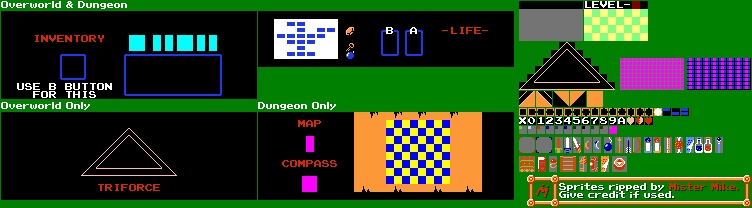
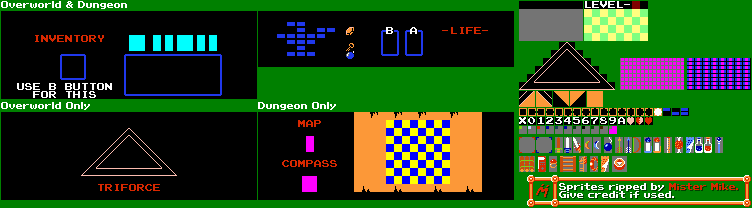
Added map to HUD, still need to add to inventory screen

Changed region(s): [[0.367, 0.0865, 0.4588, 0.2885]]

diff --git a/Container Classes/HUD.cs b/Container Classes/HUD.cs
@@ -2,6 +2,8 @@
 using Enums;
 using System;
 using System.Collections.Generic;
+using Microsoft.Xna.Framework.Graphics;
+using System.Diagnostics;
 
 public class HUD
 {
@@ -12,7 +14,11 @@ public class HUD
 
     private ISprite primaryItemSprite;
     private ISprite secondaryItemSprite;
-    //private ISprite[] primarySecondaryItems;
+
+    private ISprite hudMapCover;
+    private ISprite hudLocator;
+    private ISprite compassLocator;
+    private Dictionary<(int, int), Vector2> mapIndicators;
 
     public HUDText rupeeText { get; set; }
     public HUDText keyText { get; set; }
@@ -44,6 +50,32 @@ public class HUD
         itemText = spriteFactory.CreateHUDText(new Vector2(hudPositioning.X + 390, hudPositioning.Y + 165));
         itemText.Text = "" + playerInventory.calculateNumberOfSecondaryItems();
         itemText.TextColor = Color.White;
+
+        hudMapCover = spriteFactory.CreateHUDSquareSprite(new Rectangle(hudPositioning.X + 63, hudPositioning.Y + 32, 275, 190), Color.Black);
+
+        mapIndicators = new()
+        {
+            {(0, 1), new Vector2(hudPositioning.X + 125, hudPositioning.Y + 45) },
+            {(0, 2), new Vector2(hudPositioning.X + 167, hudPositioning.Y + 45) },
+            {(1, 2), new Vector2(hudPositioning.X + 167, hudPositioning.Y + 70) },
+            {(2, 2), new Vector2(hudPositioning.X + 167, hudPositioning.Y + 95) },
+            {(2, 1), new Vector2(hudPositioning.X + 125, hudPositioning.Y + 95) },
+            {(2, 0), new Vector2(hudPositioning.X + 83, hudPositioning.Y + 95) },
+            {(3, 1), new Vector2(hudPositioning.X + 125, hudPositioning.Y + 120) },
+            {(3, 2), new Vector2(hudPositioning.X + 167, hudPositioning.Y + 120) },
+            {(4, 2), new Vector2(hudPositioning.X + 167, hudPositioning.Y + 145) },
+            {(5, 1), new Vector2(hudPositioning.X + 125, hudPositioning.Y + 170) },
+            {(5, 2), new Vector2(hudPositioning.X + 167, hudPositioning.Y + 170) }, // starting room
+            {(2, 3), new Vector2(hudPositioning.X + 209, hudPositioning.Y + 95) },
+            {(3, 3), new Vector2(hudPositioning.X + 209, hudPositioning.Y + 120) },
+            {(5, 3), new Vector2(hudPositioning.X + 209, hudPositioning.Y + 170) },
+            {(1, 4), new Vector2(hudPositioning.X + 251, hudPositioning.Y + 70) },
+            {(2, 4), new Vector2(hudPositioning.X + 251, hudPositioning.Y + 95) },
+            {(1, 5), new Vector2(hudPositioning.X + 293, hudPositioning.Y + 70) },
+        };
+
+        hudLocator = spriteFactory.CreateHUDSquareSprite(new Rectangle((int)mapIndicators[((int)(playerInventory.currentRoom.X), (int)(playerInventory.currentRoom.Y))].X, (int)mapIndicators[((int)playerInventory.currentRoom.X, (int)playerInventory.currentRoom.Y)].Y, 10, 10), Color.LimeGreen);
+        compassLocator = spriteFactory.CreateHUDSquareSprite(new Rectangle(hudPositioning.X + 293, hudPositioning.Y + 70, 10, 10), Color.Red);
     }
 
     private ISprite determineItemSprite(Weapon weapon, Vector2 position)
@@ -83,6 +115,8 @@ public class HUD
         itemText.Text = "" + playerInventory.calculateNumberOfSecondaryItems();
         primaryItemSprite = determineItemSprite(playerInventory.primaryItem, new Vector2(hudPositioning.X + 575, hudPositioning.Y + 100));
         secondaryItemSprite = determineItemSprite(playerInventory.secondaryItem, new Vector2(hudPositioning.X + 625, hudPositioning.Y + 130));
+
+        hudLocator = spriteFactory.CreateHUDSquareSprite(new Rectangle((int)mapIndicators[((int)(playerInventory.currentRoom.X), (int)(playerInventory.currentRoom.Y))].X, (int)mapIndicators[((int)playerInventory.currentRoom.X, (int)playerInventory.currentRoom.Y)].Y, 10, 10), Color.LimeGreen);
     }
     public void Draw()
     {
@@ -120,5 +154,18 @@ public class HUD
         rupeeText.Draw();
         keyText.Draw();
         itemText.Draw();
+
+
+        if (playerInventory.hasCompass)
+        {
+            compassLocator.SpriteDraw(Vector2.Zero);
+        }
+
+        if (!playerInventory.hasMap)
+        {
+            hudMapCover.SpriteDraw(new Vector2(hudPositioning.X + 300, hudPositioning.Y + 50));
+        }
+
+        hudLocator.SpriteDraw(Vector2.Zero);
     }
 }

diff --git a/Sprites/HUD/HUDSquareSprite.cs b/Sprites/HUD/HUDSquareSprite.cs
@@ -1,0 +1,33 @@
+using Microsoft.Xna.Framework;
+using Microsoft.Xna.Framework.Graphics;
+
+public class HUDSquareSprite : ISprite
+{
+    private Texture2D texture;
+    private SpriteBatch spriteBatch;
+    private Rectangle coverage;
+    private Color color;
+
+    //private Texture2D texture;
+    private Rectangle sourceRectangle = new Rectangle(1, 2, 1, 1);
+
+    public HUDSquareSprite(Rectangle coverage, SpriteBatch spriteBatch, Texture2D texture, Color color)
+    {
+        this.coverage = coverage;
+        this.spriteBatch = spriteBatch;
+        this.texture = texture;
+        this.color = color;
+    }
+
+    public void SpriteDraw(Vector2 position)
+    {
+        //spriteBatch.Draw(texture, new Rectangle(0, 0, 1025, 224), Color.White);
+        //spriteBatch.Draw(texture, position, sourceRectangle, color);
+        spriteBatch.Draw(texture, coverage, sourceRectangle, color);
+    }
+
+    public void Update(GameTime gameTime)
+    {
+
+    }
+}

diff --git a/Container Classes/LinkInventory.cs b/Container Classes/LinkInventory.cs
@@ -1,6 +1,7 @@
 using System;
 using System.Collections.Generic;
 using Enums;
+using Microsoft.Xna.Framework;
 
 public class LinkInventory
 {
@@ -23,6 +24,8 @@ public class LinkInventory
     public Weapon primaryItem { get; set; }
     public Weapon secondaryItem { get; set; }
 
+    public Vector2 currentRoom;
+
     public LinkInventory()
     {
         keys = 0;
@@ -39,7 +42,7 @@ public class LinkInventory
         primaryItem = Weapon.WOOD_SWORD;
         secondaryItem = Weapon.BOMB;
         hasTriForcePiece = false;
-
+        currentRoom = new Vector2(5, 2);
     }
 
     public void ResetInventory()

diff --git a/Collisions/Collision Handlers/PlayerDoorwayCollisionHandler.cs b/Collisions/Collision Handlers/PlayerDoorwayCollisionHandler.cs
@@ -1,6 +1,7 @@
 using Microsoft.Xna.Framework;
 using Microsoft.Xna.Framework.Audio;
 using System.Collections.Generic;
+using System.Diagnostics;
 
 public class PlayerDoorwayCollisionHandler : ICollisionHandler
 {
@@ -110,6 +111,7 @@ public class PlayerDoorwayCollisionHandler : ICollisionHandler
                 break;
         }
 
+        player.playerInventory.currentRoom = new Vector2(roomManager.CurrentRow, roomManager.CurrentCol);
         transitioning = false;
     }
 }

diff --git a/Sprites/HUD/HUDSpriteFactory.cs b/Sprites/HUD/HUDSpriteFactory.cs
@@ -60,4 +60,9 @@ public class HUDSpriteFactory
     {
         return new HUDCursorSprite(texture, spriteBatch);
     }
+
+    public HUDSquareSprite CreateHUDSquareSprite(Rectangle coverage, Color color)
+    {
+        return new HUDSquareSprite(coverage, spriteBatch, texture, color);
+    }
 }
